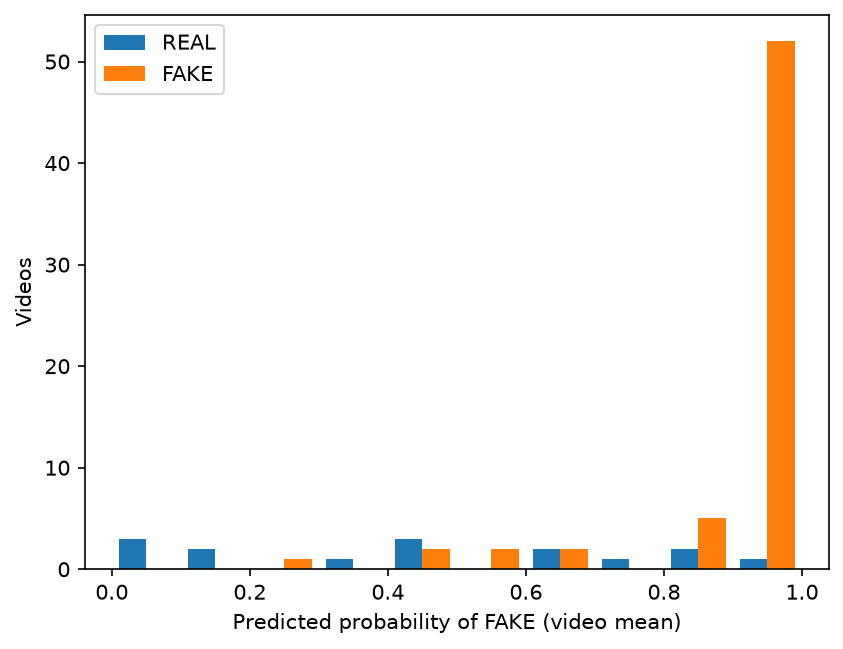
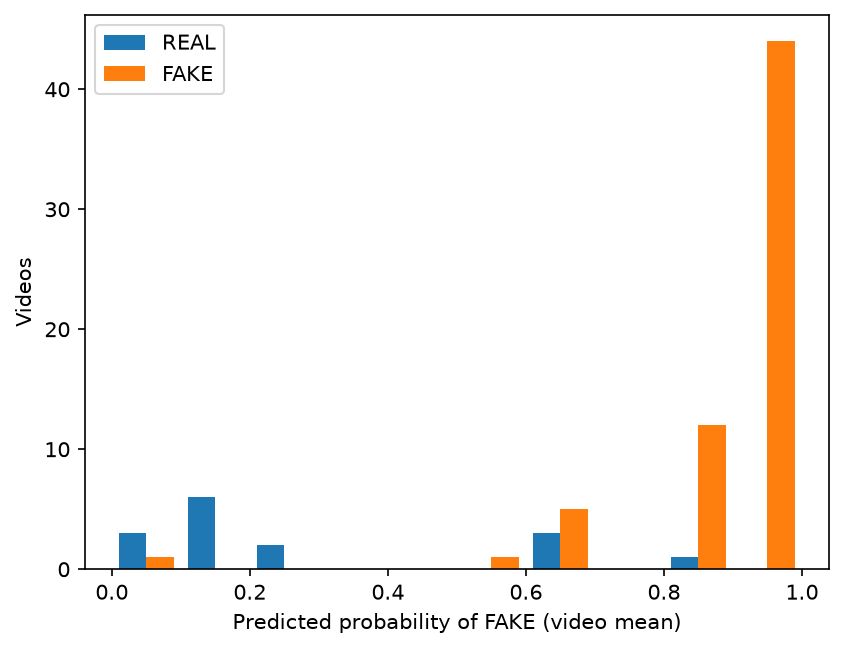
Add group-aware 5-fold cross-validation

diff --git a/src/dataset.py b/src/dataset.py
@@ -1,0 +1,66 @@
+"""Group-aware train/val split and PyTorch dataset for face crops."""
+import json
+from pathlib import Path
+
+import pandas as pd
+import torch
+from PIL import Image
+from sklearn.model_selection import StratifiedGroupKFold
+from torch.utils.data import Dataset
+from torchvision import transforms
+
+CSV_PATH = Path(r"C:\data\dfdc\faces.csv")
+META_PATH = Path(r"C:\data\dfdc\train_sample_videos\metadata.json")
+MEAN, STD = [0.485, 0.456, 0.406], [0.229, 0.224, 0.225]  # ImageNet stats
+
+
+def make_splits(csv_path=CSV_PATH, fold=0, n_splits=5, seed=42):
+    """Split by VIDEO GROUP: a real video and every fake made from it stay together."""
+    df = pd.read_csv(csv_path)
+    df["target"] = (df["label"] == "FAKE").astype(int)  # FAKE = 1
+    with open(META_PATH) as f:
+        meta = json.load(f)
+    # reals have no "original", so they form their own group
+    df["group"] = df["video"].map(lambda v: meta[v].get("original") or v)
+    videos = df.groupby("video").agg(
+        target=("target", "first"), group=("group", "first")).reset_index()
+    sgkf = StratifiedGroupKFold(n_splits=n_splits, shuffle=True, random_state=seed)
+    tr_idx, va_idx = list(sgkf.split(videos, videos.target, videos.group))[fold]
+    train_v = set(videos.video.iloc[tr_idx])
+    val_v = set(videos.video.iloc[va_idx])
+    train_df = df[df.video.isin(train_v)].reset_index(drop=True)
+    val_df = df[df.video.isin(val_v)].reset_index(drop=True)
+    return train_df, val_df
+
+
+def get_transforms(train: bool):
+    steps = [transforms.Resize((224, 224))]
+    if train:
+        steps.append(transforms.RandomHorizontalFlip())
+    steps += [transforms.ToTensor(), transforms.Normalize(MEAN, STD)]
+    return transforms.Compose(steps)
+
+
+class FaceDataset(Dataset):
+    def __init__(self, df, train: bool):
+        self.df = df
+        self.tf = get_transforms(train)
+
+    def __len__(self):
+        return len(self.df)
+
+    def __getitem__(self, i):
+        row = self.df.iloc[i]
+        img = Image.open(row["path"]).convert("RGB")
+        return self.tf(img), torch.tensor(row["target"], dtype=torch.float32)
+
+
+if __name__ == "__main__":
+    train_df, val_df = make_splits()
+    overlap = set(train_df["group"]) & set(val_df["group"])
+    assert not overlap, "Leak: a source video and its fakes are split apart!"
+    for name, d in [("train", train_df), ("val", val_df)]:
+        print(f"{name}: {d['video'].nunique()} videos, {len(d)} crops, "
+              f"{d['target'].mean():.1%} fake")
+    x, y = FaceDataset(train_df, train=True)[0]
+    print("sample:", tuple(x.shape), y.item())

diff --git a/src/train.py b/src/train.py
@@ -43,11 +43,12 @@ def main():
     p.add_argument("--batch-size", type=int, default=32)
     p.add_argument("--lr", type=float, default=1e-4)
     p.add_argument("--workers", type=int, default=4)
+    p.add_argument("--fold", type=int, default=0)
     args = p.parse_args()
 
     device = "cuda" if torch.cuda.is_available() else "cpu"
     OUT.mkdir(exist_ok=True)
-    train_df, val_df = make_splits()
+    train_df, val_df = make_splits(fold=args.fold)
 
     train_dl = DataLoader(FaceDataset(train_df, train=True), args.batch_size,
                           shuffle=True, num_workers=args.workers, pin_memory=True)
@@ -62,9 +63,8 @@ def main():
 
     base = train_df.target.mean()
     const = log_loss(val_df.target, np.full(len(val_df), base))
-    print(f"Baseline (constant {base:.2f} prediction) crop log loss: {const:.3f}")
+    print(f"Fold {args.fold}: constant {base:.2f} prediction crop log loss: {const:.3f}")
 
-    best = float("inf")
     for epoch in range(1, args.epochs + 1):
         model.train()
         total = 0.0
@@ -82,11 +82,10 @@ def main():
         metrics, scored = evaluate(val_df, predict(model, val_dl, device))
         print(f"epoch {epoch}: train_loss={total / len(train_df):.4f} "
               + " ".join(f"{k}={v:.4f}" for k, v in metrics.items()))
-        if metrics["video_logloss"] < best:
-            best = metrics["video_logloss"]
-            torch.save(model.state_dict(), OUT / "best.pth")
-            scored.to_csv(OUT / "val_predictions.csv", index=False)
-            print("  saved best model")
+
+    # Use the final epoch only (no best-epoch picking on the validation set)
+    scored.to_csv(OUT / f"val_predictions_fold{args.fold}.csv", index=False)
+    torch.save(model.state_dict(), OUT / f"model_fold{args.fold}.pth")
 
 
 if __name__ == "__main__":

diff --git a/src/cv_report.py b/src/cv_report.py
@@ -1,0 +1,22 @@
+"""Pool out-of-fold predictions from all folds and report metrics."""
+import glob
+import json
+
+import numpy as np
+import pandas as pd
+from sklearn.metrics import log_loss, roc_auc_score
+
+df = pd.concat(pd.read_csv(f) for f in sorted(glob.glob("outputs/val_predictions_fold*.csv")))
+vid = df.groupby("video").agg(target=("target", "first"), prob=("prob", "mean")).reset_index()
+pred = (vid.prob >= 0.5).astype(int)
+m = {
+    "videos": len(vid),
+    "real_videos": int((vid.target == 0).sum()),
+    "video_logloss": round(log_loss(vid.target, vid.prob), 4),
+    "constant_baseline_logloss": round(log_loss(vid.target, np.full(len(vid), vid.target.mean())), 4),
+    "video_auc": round(roc_auc_score(vid.target, vid.prob), 4),
+    "real_recall": round(((pred == 0) & (vid.target == 0)).sum() / (vid.target == 0).sum(), 4),
+    "fake_recall": round(((pred == 1) & (vid.target == 1)).sum() / (vid.target == 1).sum(), 4),
+}
+print(json.dumps(m, indent=2))
+open("results/metrics_cv.json", "w").write(json.dumps(m, indent=2))
